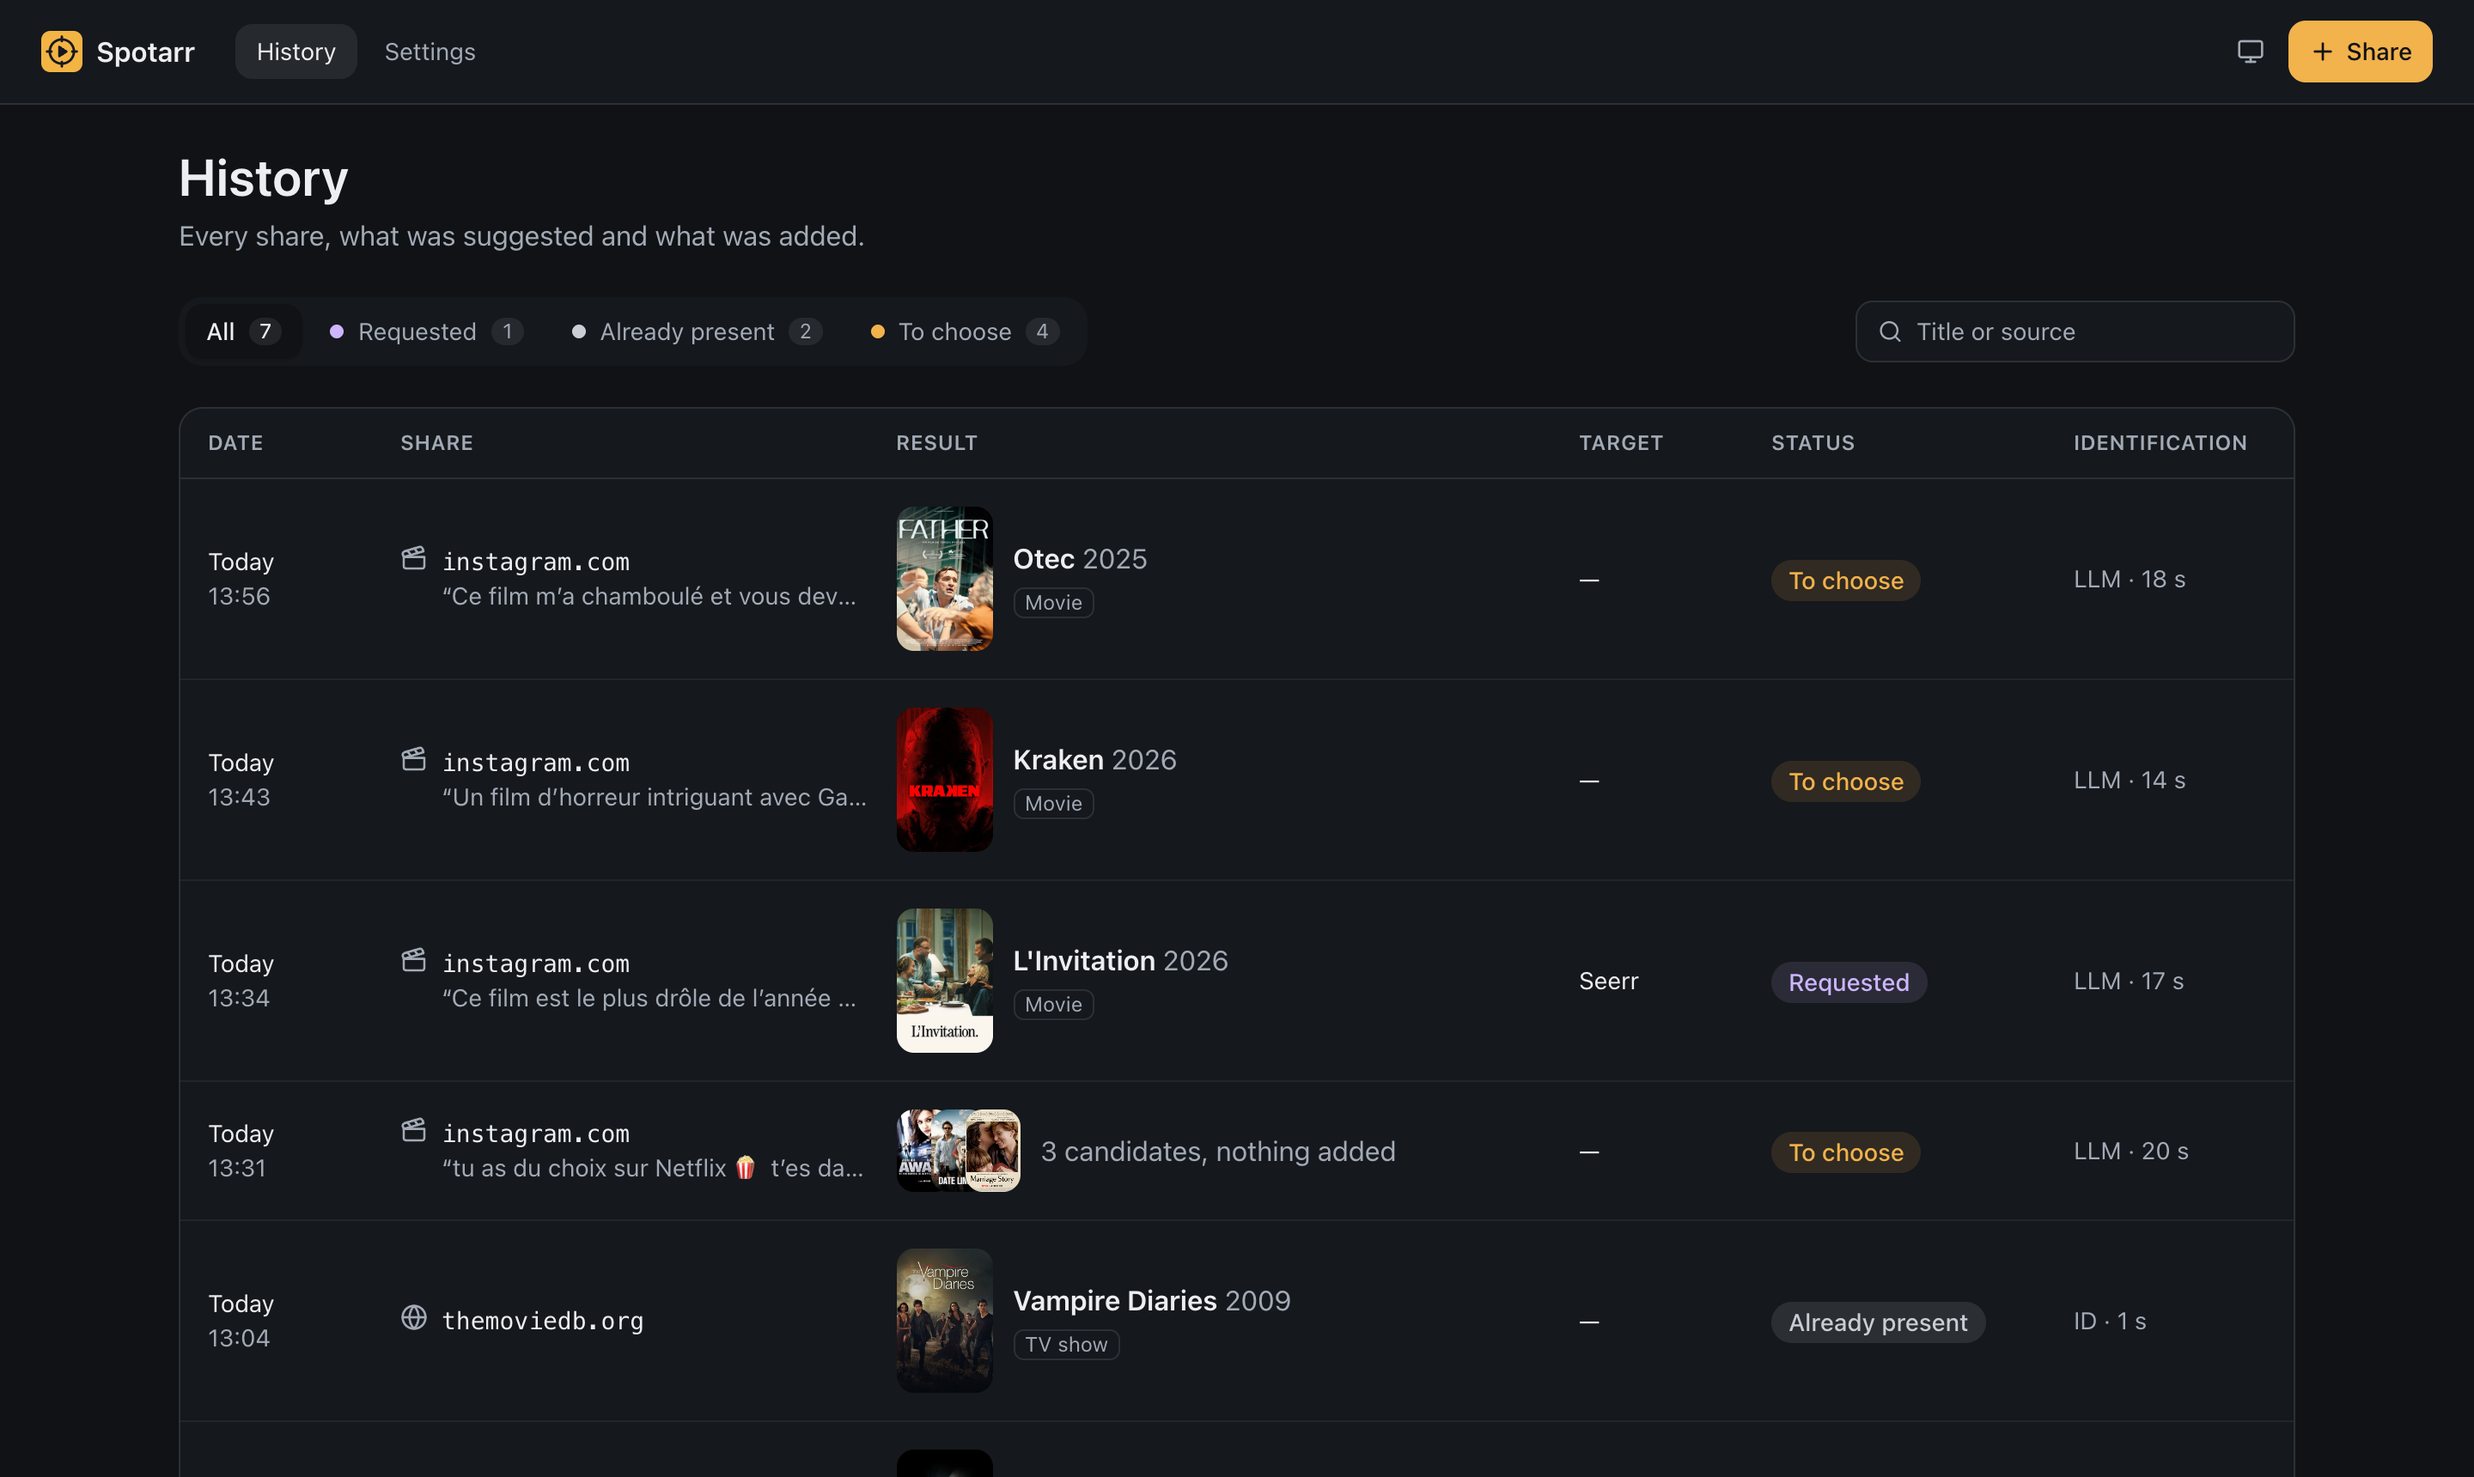
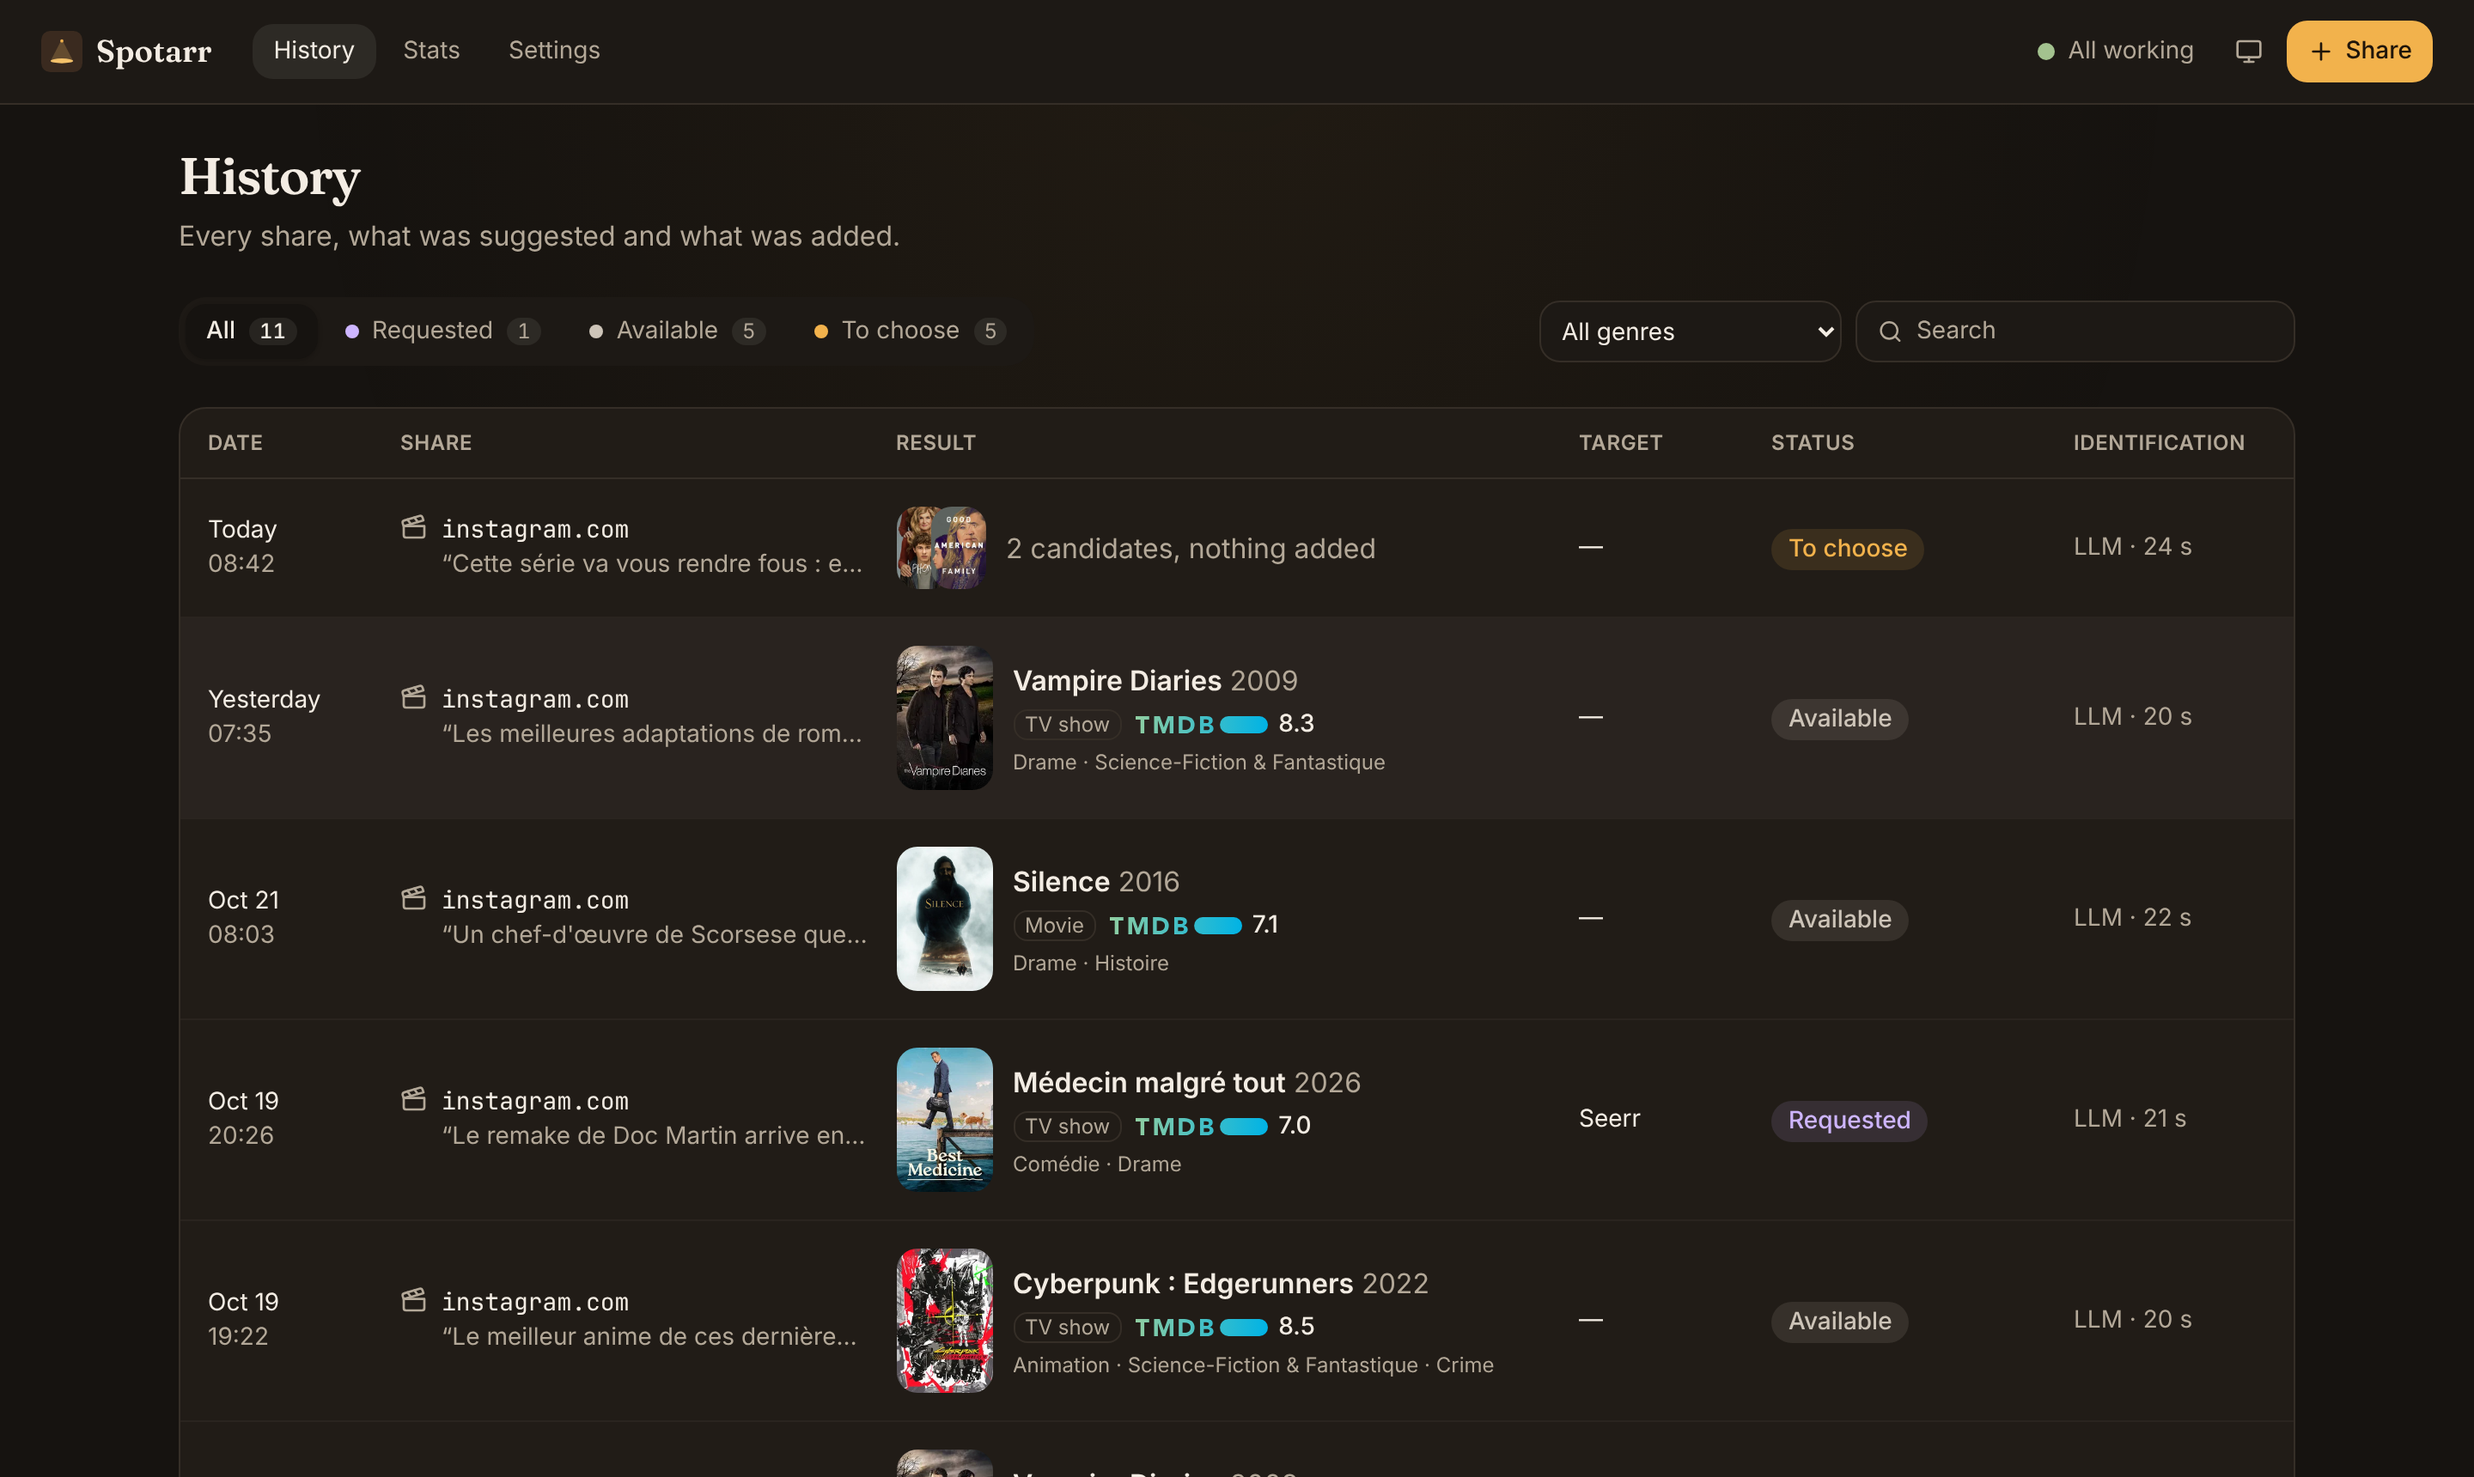
docs: README screenshots in the cozy theme, on a phone too (#205)
The desktop screenshot showed the old slate theme and logo. A pair of
iPhone screenshots joins it, since Spotarr is mostly used on a phone.
The "personal project" line goes.

Closes #204

Claude-Session: https://claude.ai/code/session_01VGcXoyHPqfnmKyeMwKc6Jv

diff --git a/README.md b/README.md
@@ -14,9 +14,9 @@ A reel, a TikTok, a YouTube video, an article, a film's page on Letterboxd, Allo
 
 <img src="docs/screenshots/history-dark.png" alt="The History page, in dark mode" />
 
-</div>
+<img src="docs/screenshots/phones.png" width="520" alt="The History in light mode and a Share's page in dark mode, on an iPhone" />
 
-A personal project, for one user, self-hosted with Docker or on Umbrel.
+</div>
 
 ## ✨ What it does
 
